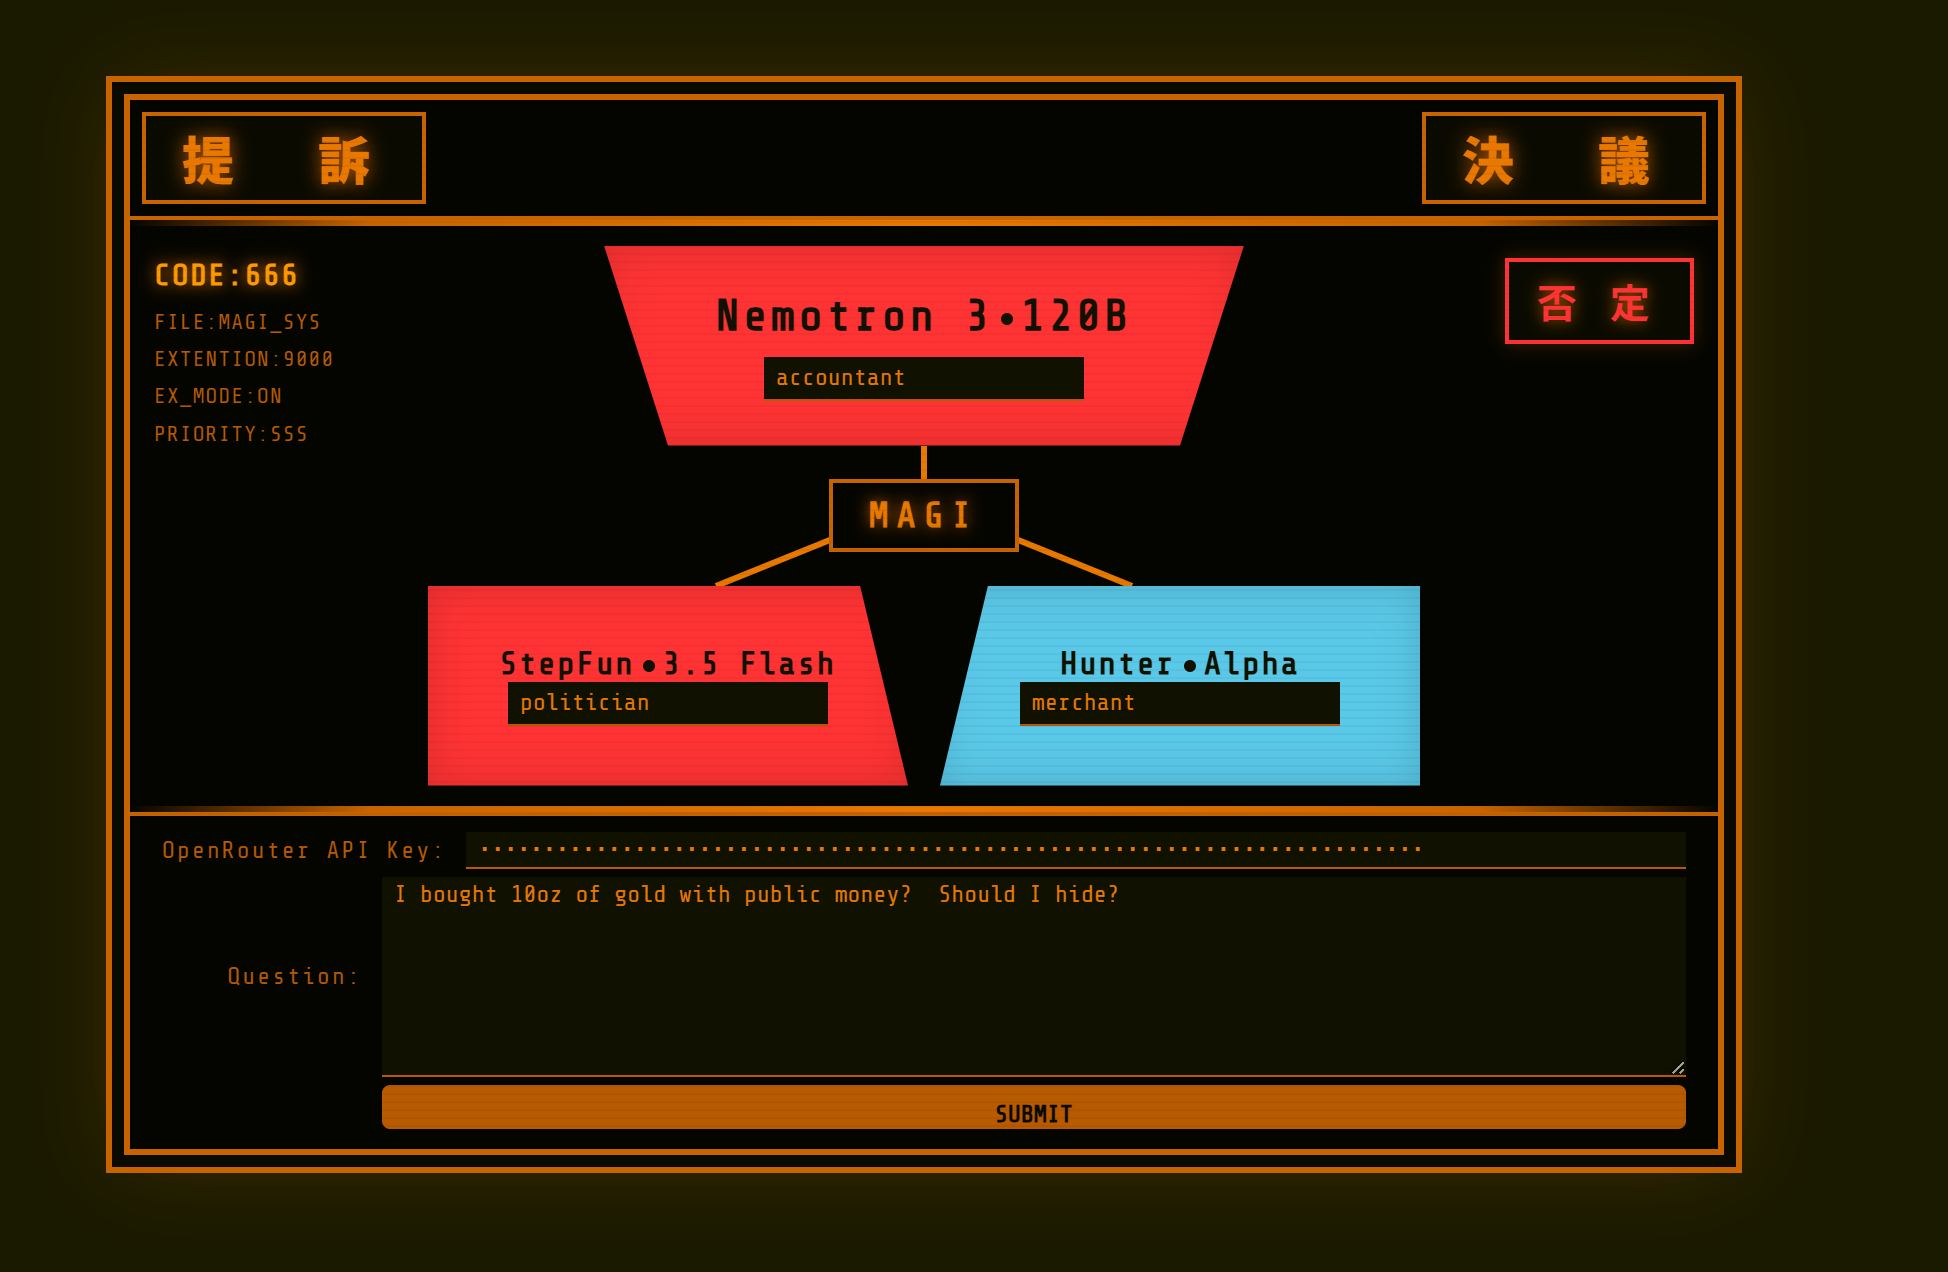
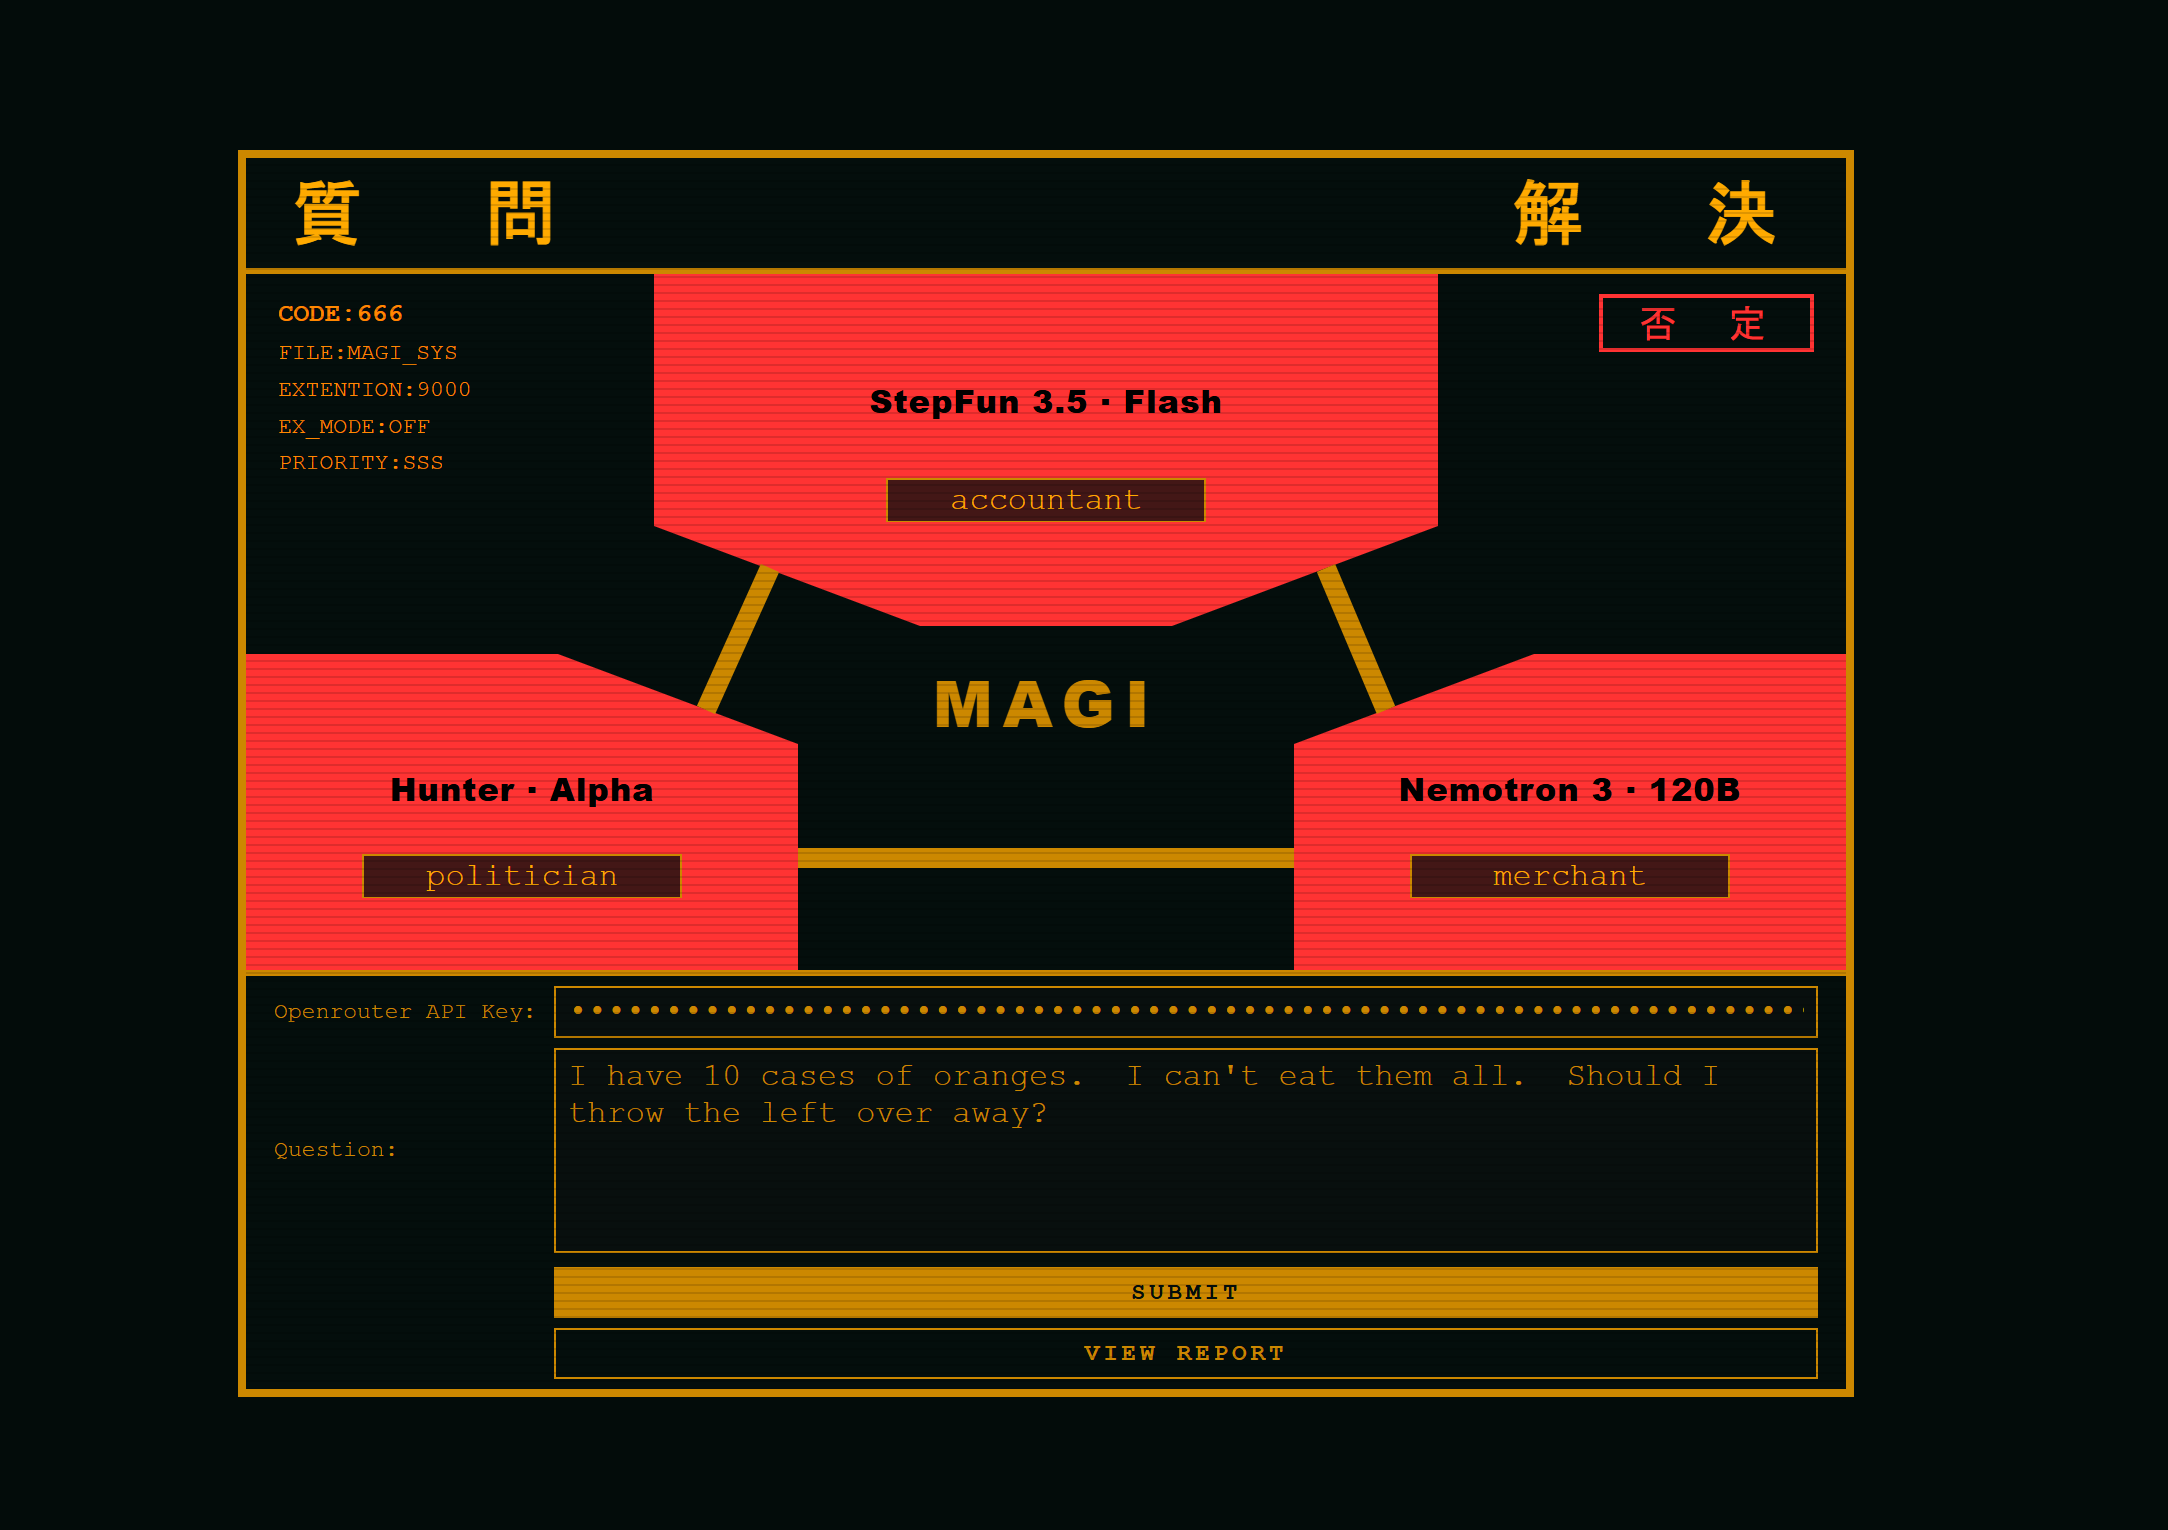
- Readme update.

diff --git a/README.md b/README.md
@@ -32,3 +32,9 @@ MIT
 
 ### Screenshot
 ![main.png](main.png)
+
+#### Select new AI model
+![model_selection.png](model_selection.png)
+
+#### Report on full content and reasoning for each model.
+![report.png](report.png)
